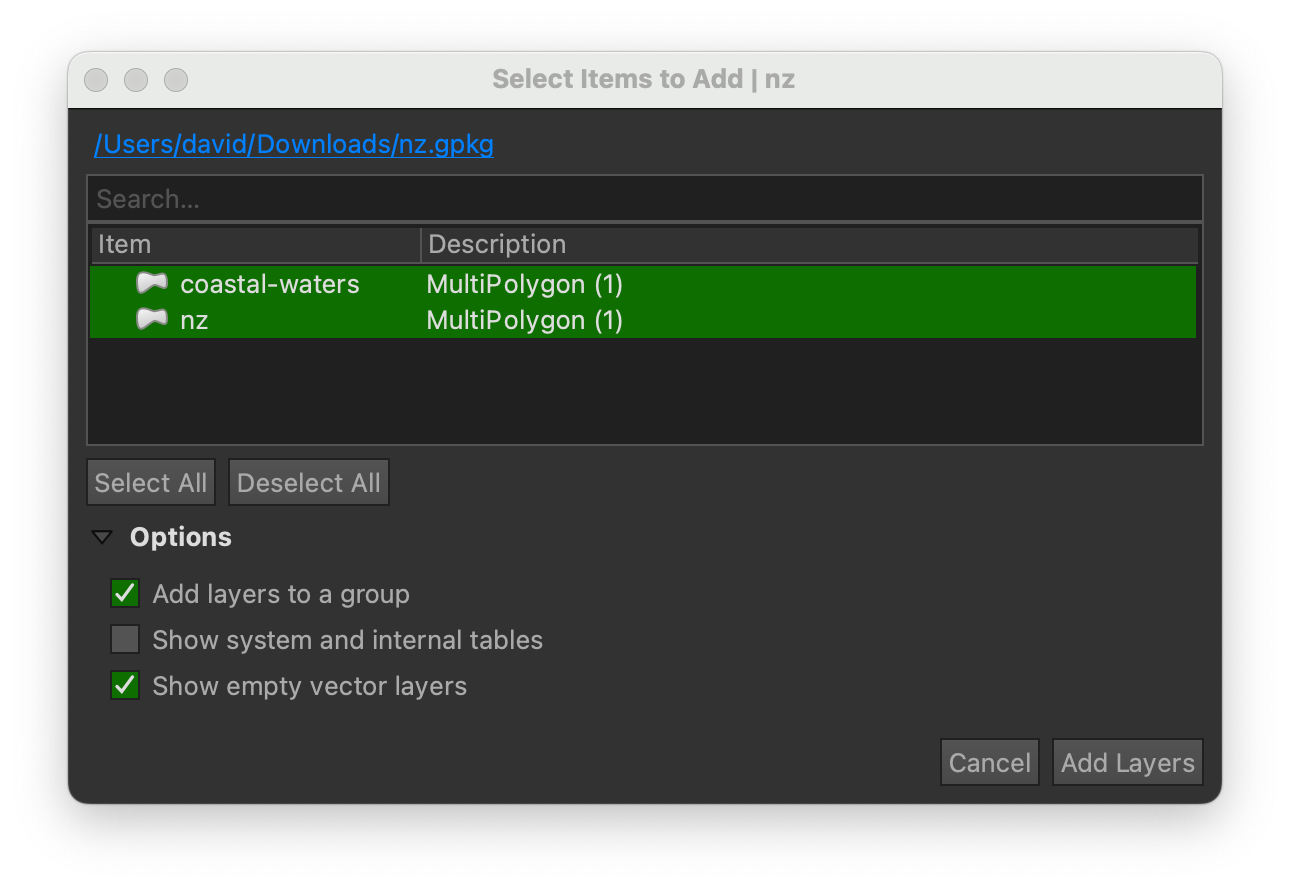
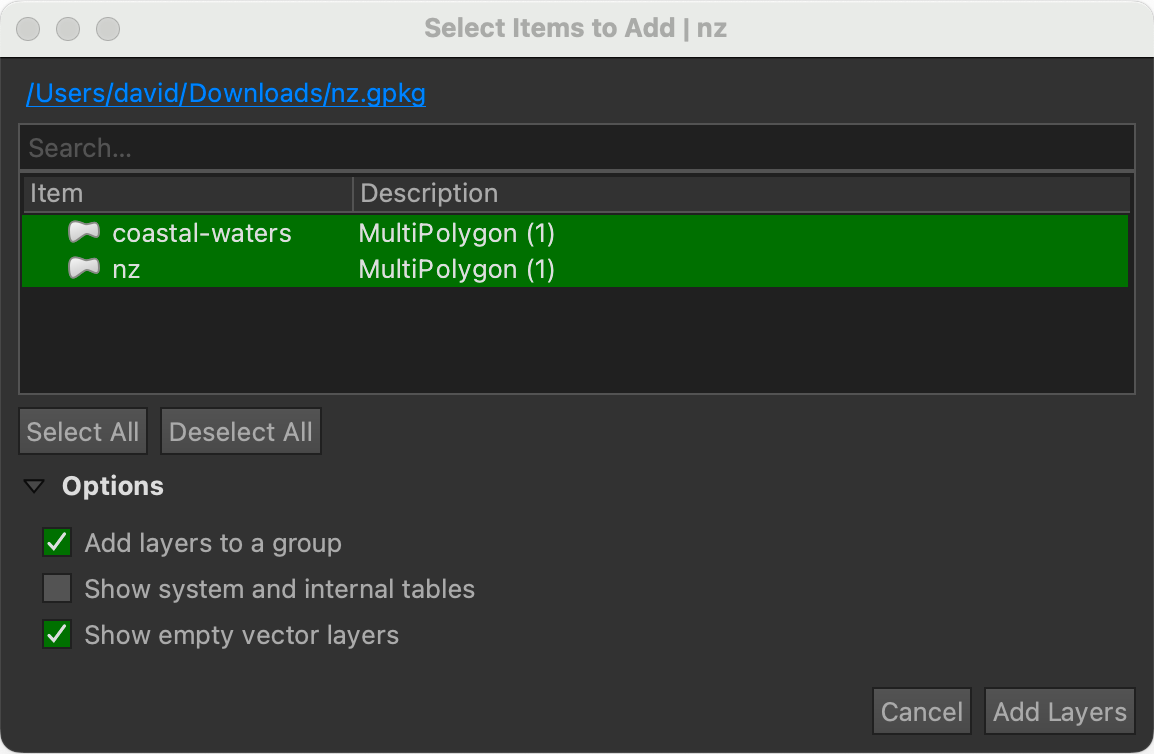
cleaned up one of the dialog images

diff --git a/docs/posts/2024-10-16-geopackages/in-praise-of-the-geopackage.html b/docs/posts/2024-10-16-geopackages/in-praise-of-the-geopackage.html
@@ -326,19 +326,19 @@ Projected CRS: NZGD2000 / New Zealand Transverse Mercator 2000</code></pre>
 <p>Meanwhile, if you open a two-layer GPKG in QGIS you’ll see this:</p>
 <div class="quarto-figure quarto-figure-center">
 <figure class="figure">
-<p><img src="opening-a-multilayer-gpgk-dialog.png" class="img-fluid quarto-figure quarto-figure-center figure-img" style="width:600px; border-radius:5%;"></p>
+<p><img src="opening-a-multilayer-gpgk-dialog.png" class="img-fluid quarto-figure quarto-figure-center figure-img" style="width:600px; border-radius:10px; box-shadow: 5px 5px 5px #aaa;"></p>
 </figure>
 </div>
 <p>That’s pretty clear. What’s unfortunately less clear than in <em>R</em> is the sequence of operations that will safely add a layer to an existing GeoPackage. That’s not quite fair: what is unclear is the warning message you will get if you choose an existing <code>.gpkg</code> file as the destination for a right-click <span style="font-family:sans-serif;"><strong>Export → Save Features As…</strong></span> operation from an entry in the <span style="font-family:sans-serif;"><strong>Layers</strong></span> panel. The warning message looks like this:</p>
 <div class="quarto-figure quarto-figure-center">
 <figure class="figure">
-<p><img src="gpkg-already-exists-warning.png" class="img-fluid quarto-figure quarto-figure-center figure-img" style="width:300px; border-radius:5%;"></p>
+<p><img src="gpkg-already-exists-warning.png" class="img-fluid quarto-figure quarto-figure-center figure-img" style="width:300px; border-radius:10px; box-shadow: 5px 5px 5px #aaa;"></p>
 </figure>
 </div>
 <p>This seems pretty scary. Before trying this I’d advise you to make a copy of the target geopackage if you are concerned about losing your data, but if you steel yourself and against every instinct select <span style="font-family:sans-serif; color:#f00;"><strong>Replace</strong></span>, then as long as you set a different name in the <span style="font-family:sans-serif;">Layer name</span> option of the <span style="font-family:sans-serif;"><strong>Save Vector Layer as…</strong></span> dialog:</p>
 <div class="quarto-figure quarto-figure-center">
 <figure class="figure">
-<p><img src="new-layer-name.png" class="img-fluid quarto-figure quarto-figure-center figure-img" style="width:450px;"></p>
+<p><img src="new-layer-name.png" class="img-fluid quarto-figure quarto-figure-center figure-img" style="width:450px; border-radius:12px 0px 0px; box-shadow: 5px 5px 5px #aaa;"></p>
 </figure>
 </div>
 <p>it will be fine, and you’ll end up with an additional layer in the target GeoPackage.</p>

diff --git a/docs/blog.html b/docs/blog.html
@@ -233,7 +233,7 @@ window.Quarto = {
 
 <div class="quarto-listing quarto-listing-container-grid" id="listing-listing">
 <div class="list grid quarto-listing-cols-3">
-<div class="g-col-1" data-index="0" data-categories="geospatial,qgis,r,tutorial" data-listing-date-sort="1728990000000" data-listing-file-modified-sort="1729064202057" data-listing-date-modified-sort="NaN" data-listing-reading-time-sort="4" data-listing-word-count-sort="740">
+<div class="g-col-1" data-index="0" data-categories="geospatial,qgis,r,tutorial" data-listing-date-sort="1728990000000" data-listing-file-modified-sort="1729065647290" data-listing-date-modified-sort="NaN" data-listing-reading-time-sort="4" data-listing-word-count-sort="758">
 <a href="./posts/2024-10-16-geopackages/in-praise-of-the-geopackage.html" class="quarto-grid-link">
 <div class="quarto-grid-item card h-100 card-left">
 <p class="card-img-top"><img src="posts/2024-10-16-geopackages/opening-a-multilayer-gpgk-dialog.png" style="height: 150px;"  class="thumbnail-image card-img"/></p>
